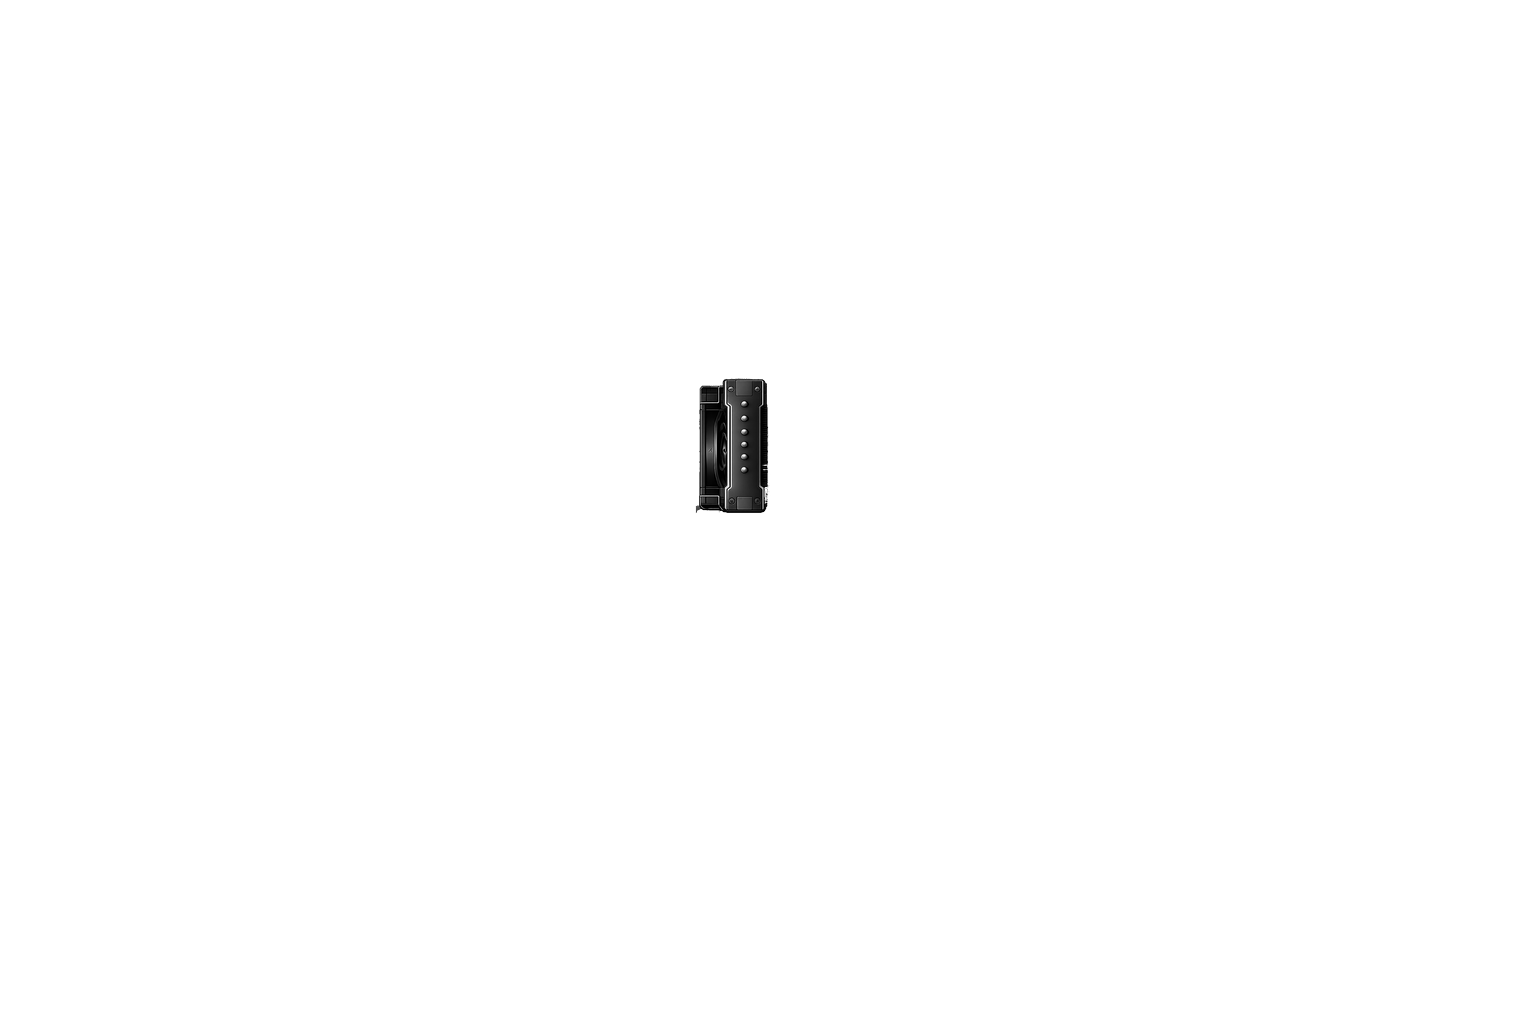
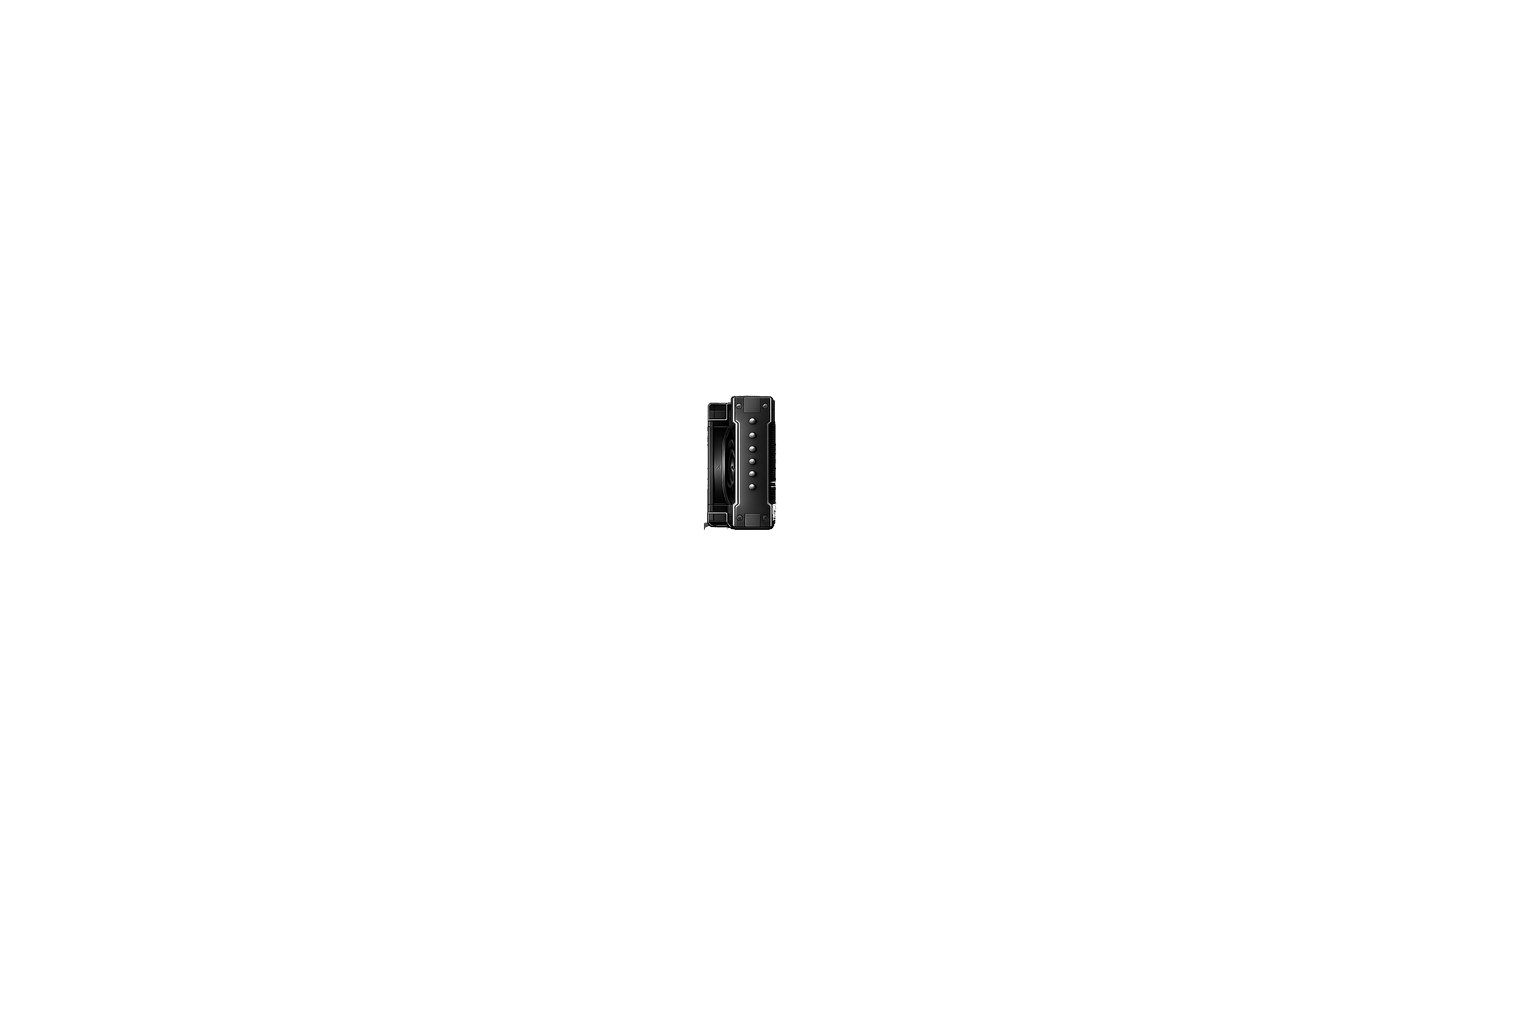
Sync: editor Save & Deploy state (pipeline_server didn't push)
User clicked Save & Deploy with new PSU positions; pipeline_server
updated compose.py, editor.html, game.js SLOT_POSITIONS, ran compose,
but the git push step didn't complete. This is the catch-up commit.

Changed region(s): [[0.4375, 0.3438, 0.5312, 0.5312]]

diff --git a/game.js b/game.js
@@ -64,7 +64,7 @@ const SLOT_POSITIONS = {
     gpu:  { xp: 46.4, yp: 59.8 },
     ram:  { xp: 52.8, yp: 45.8 },
     mb:   { xp: 47.8, yp: 50.4 },
-    psu:  { xp: 39.0, yp: 72.1 },
+    psu:  { xp: 39.9, yp: 71.3 },
     cool: { xp: 48.2, yp: 44.7 }
 };
 
